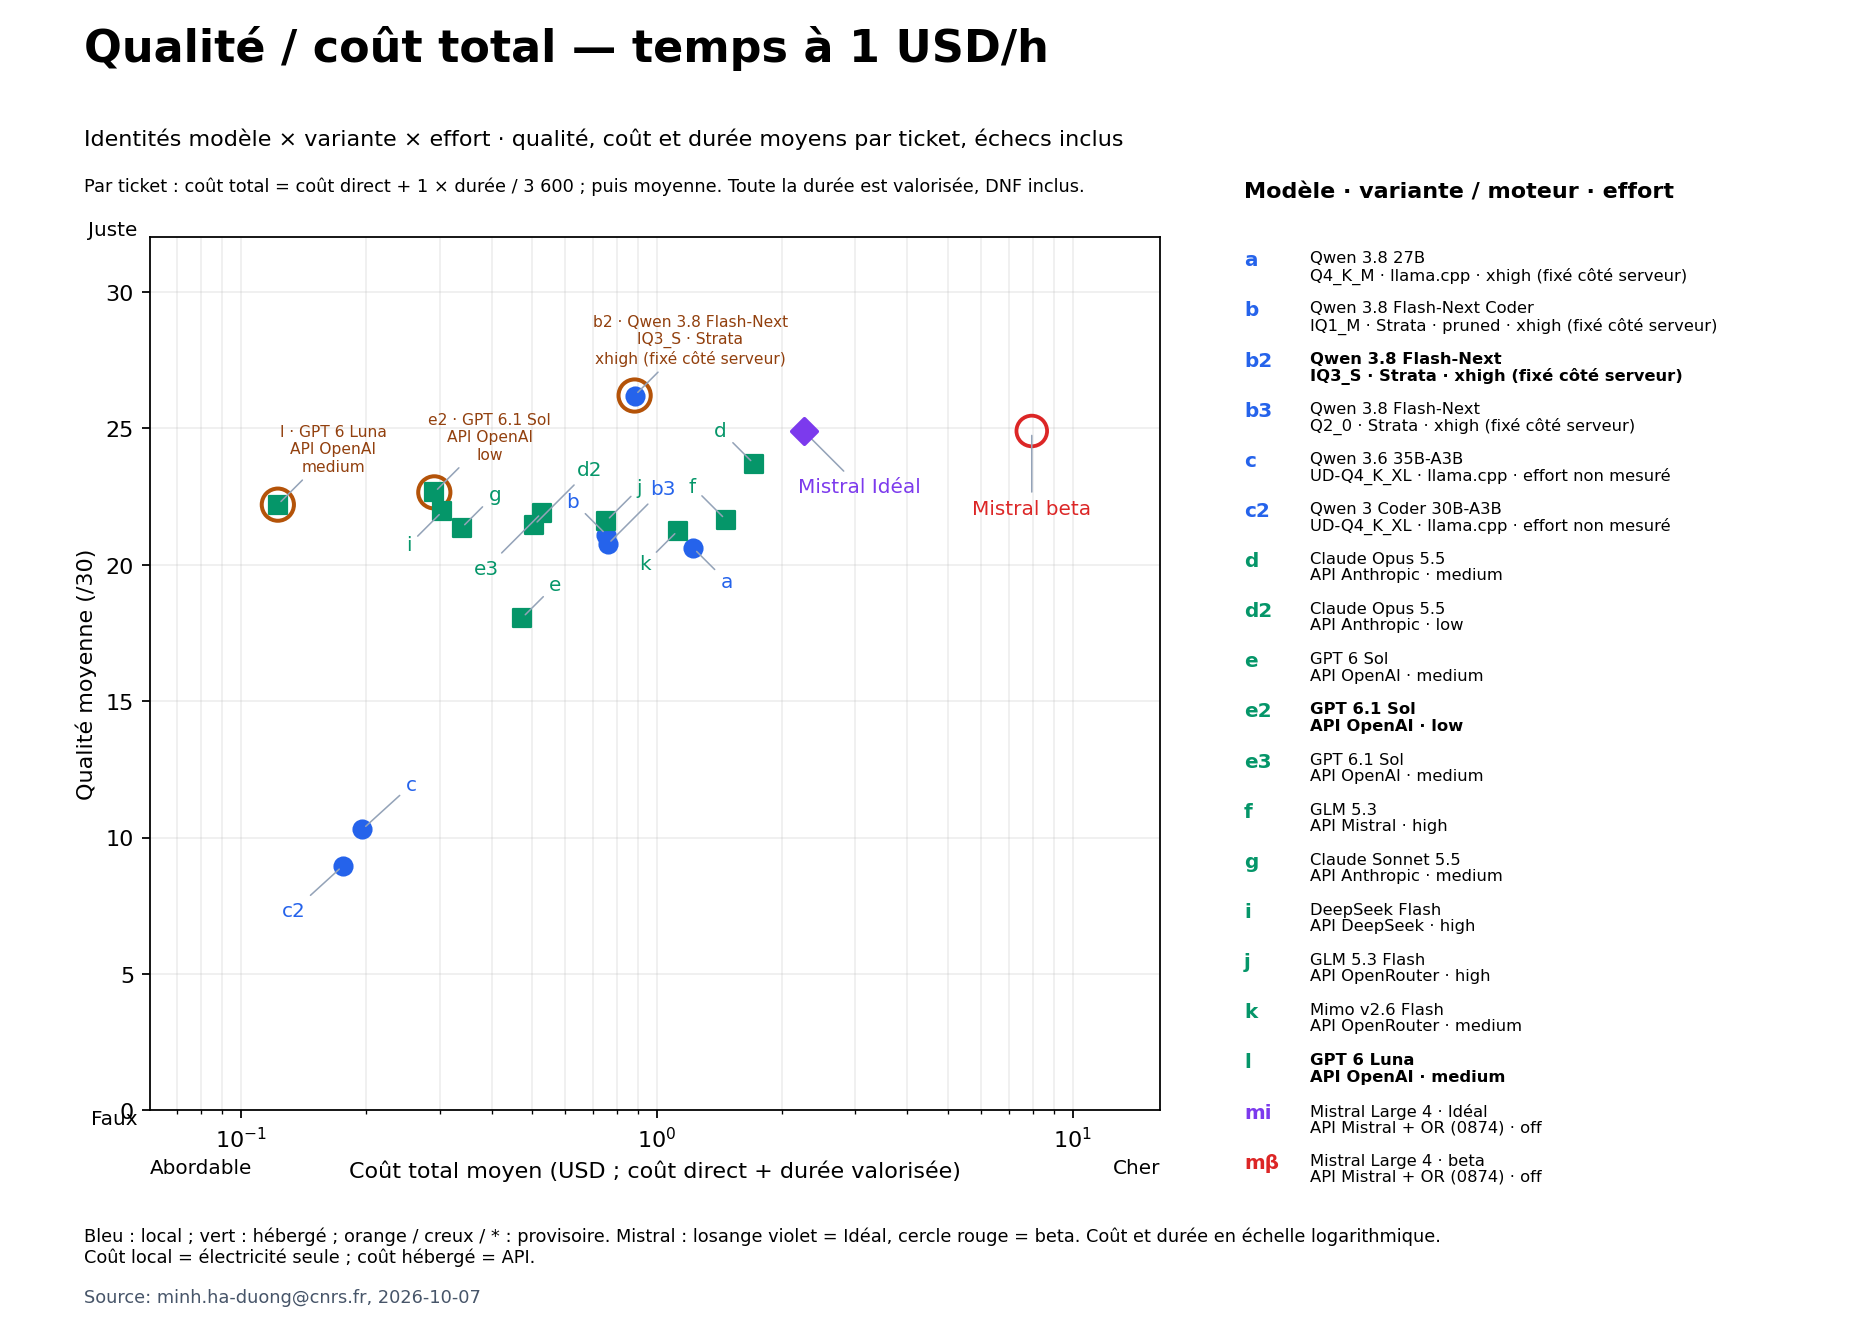
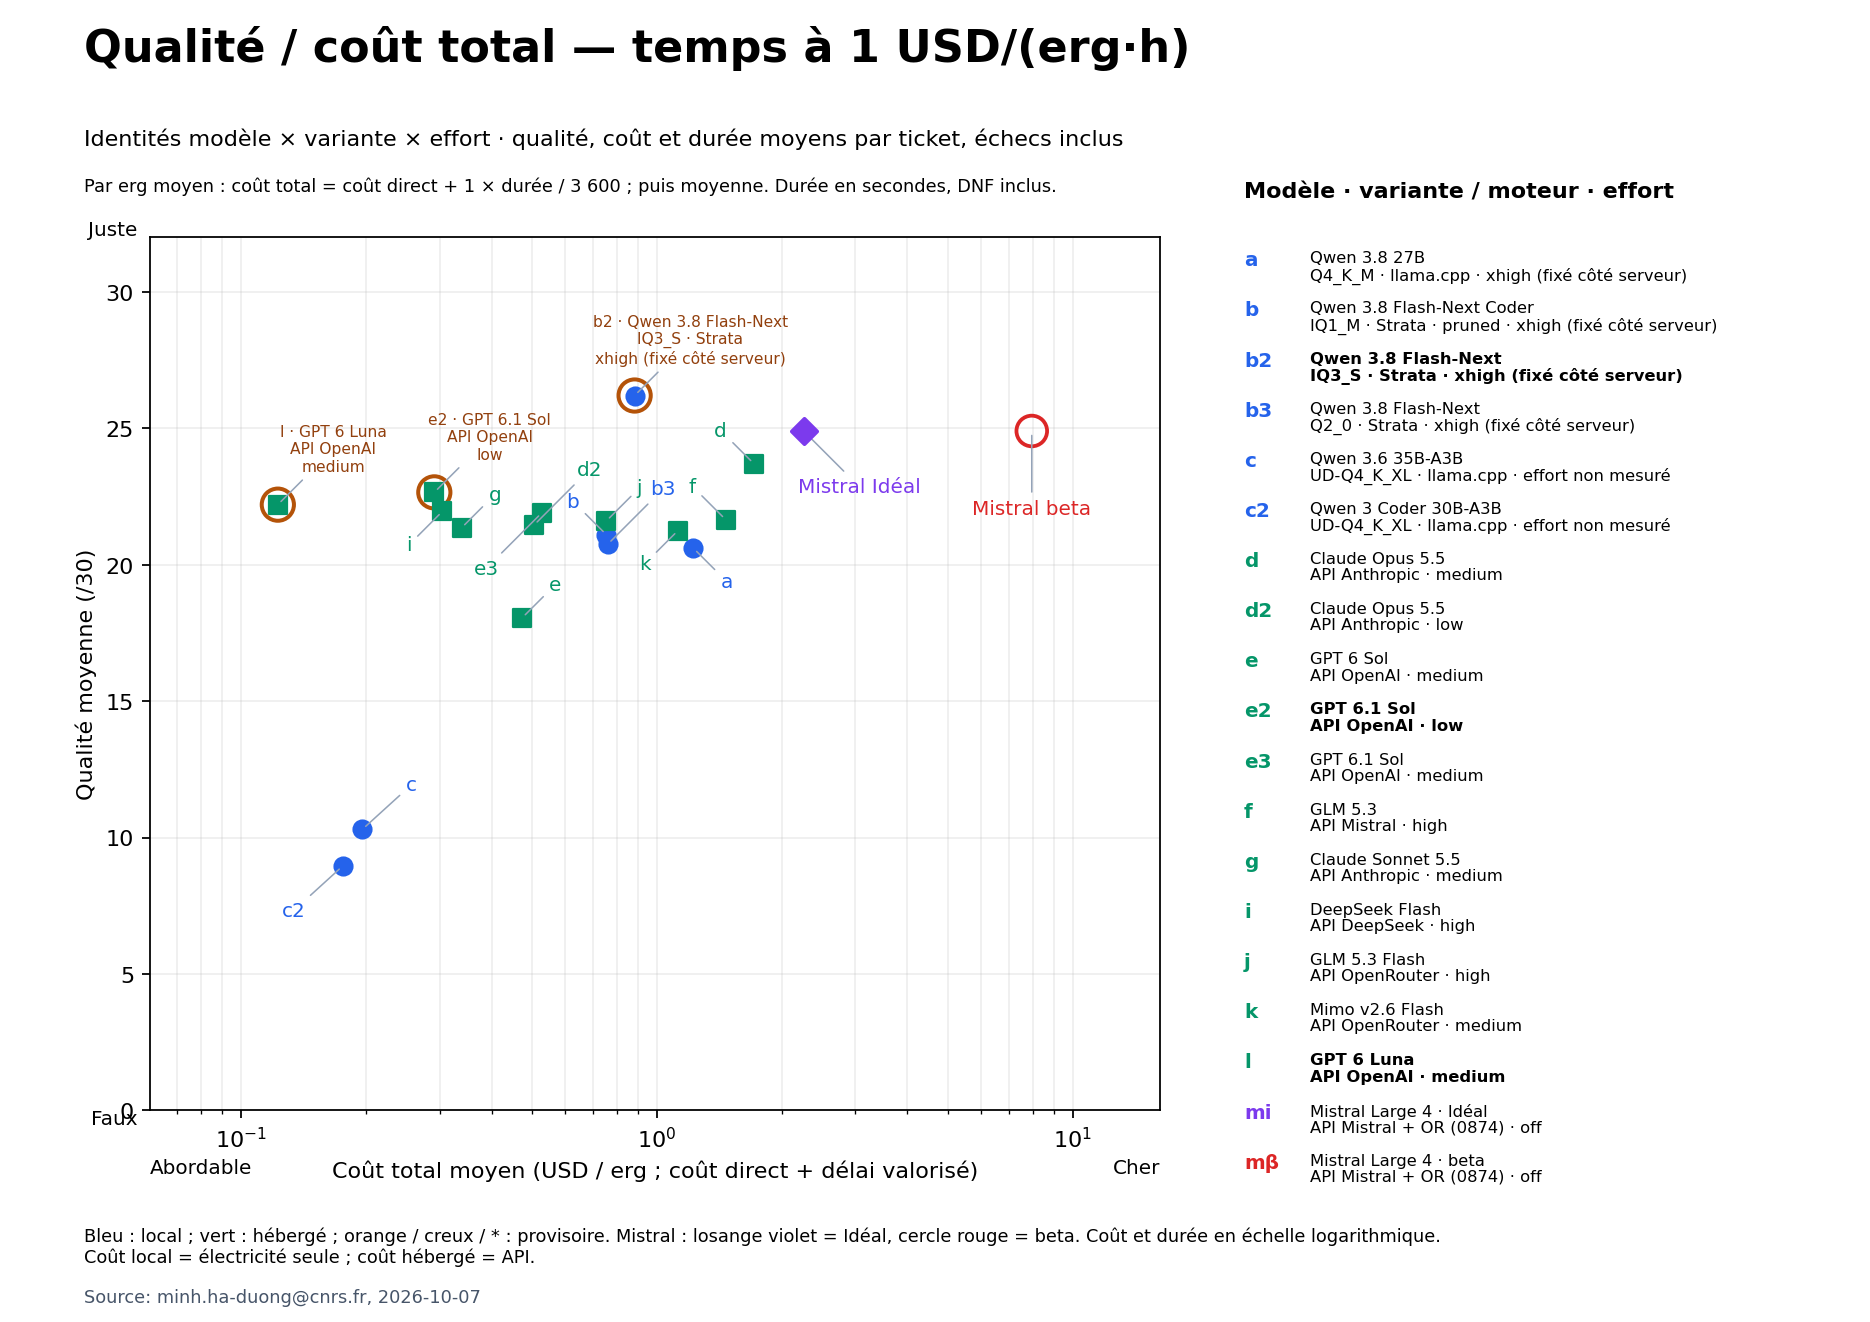
Use delay value per erg-hour consistently

Changed region(s): [[0.062, 0.1241, 0.5583, 0.1551], [0.1861, 0.8684, 0.5273, 0.8994], [0.5273, 0.031, 0.6513, 0.062]]

diff --git a/scripts/tournament-graphs.py b/scripts/tournament-graphs.py
@@ -143,7 +143,7 @@ def total_cost_median(legs, hourly_usd):
 def render(output, snapshot):
     nodes = sorted(snapshot['arms'])
     source_text = f"Source: minh.ha-duong@cnrs.fr, {snapshot['generated_at'][:10]}"
-    hourly_usd = snapshot.get('time_value_usd_hour', 1.0)
+    hourly_usd = snapshot.get('time_value_usd_per_erg_hour', 1.0)
     for arm in nodes:
         legs = snapshot['legs'][arm]
         for metric in ['quality', 'seconds', 'cost_usd']:
@@ -155,7 +155,7 @@ def render(output, snapshot):
         totals_eur = [r['cost_usd']/1.08 + .10*r['seconds']/3600 for r in legs.values()
                       if r.get('cost_usd') is not None and r.get('seconds') is not None]
         snapshot['arms'][arm]['total_cost_eur_010_mean'] = statistics.mean(totals_eur) if totals_eur else None
-    (output/'total-cost.json').write_text(json.dumps({'time_value_usd_hour': hourly_usd, 'means': {a: snapshot['arms'][a]['total_cost_usd_mean'] for a in nodes}}, indent=2)+'\n')
+    (output/'total-cost.json').write_text(json.dumps({'time_value_usd_per_erg_hour': hourly_usd, 'means': {a: snapshot['arms'][a]['total_cost_usd_mean'] for a in nodes}}, indent=2)+'\n')
     (output/'total-cost-010-eur.json').write_text(json.dumps({'time_value_eur_per_erg_hour': .10, 'usd_per_eur': 1.08, 'means': {a: snapshot['arms'][a]['total_cost_eur_010_mean'] for a in nodes}}, indent=2)+'\n')
     dag_nodes = [a for a in nodes if a not in {'c', 'c2', 'e'}]
     results = {}
@@ -227,8 +227,8 @@ def render(output, snapshot):
              'Durée moyenne (minutes)', 'Qualité moyenne (/30)'),
             ('speed-cost', 'Vitesse / coût', 'cost_usd_mean', 'seconds_mean',
              'Coût moyen (USD)', 'Durée moyenne (minutes)'),
-            ('quality-total-cost', f'Qualité / coût total — temps à {hourly_usd:g} USD/h', 'total_cost_usd_mean', 'quality_mean',
-             'Coût total moyen (USD ; coût direct + durée valorisée)', 'Qualité moyenne (/30)'),
+            ('quality-total-cost', f'Qualité / coût total — temps à {hourly_usd:g} USD/(erg·h)', 'total_cost_usd_mean', 'quality_mean',
+             'Coût total moyen (USD / erg ; coût direct + délai valorisé)', 'Qualité moyenne (/30)'),
             ('quality-total-cost-010-eur', 'Qualité / coût total — temps à 0,10 EUR/(erg·h)', 'total_cost_eur_010_mean', 'quality_mean',
              'Coût total moyen (EUR / erg ; coût direct + durée valorisée)', 'Qualité moyenne (/30)'),
         ]
@@ -327,7 +327,7 @@ def render(output, snapshot):
             if name == 'quality-total-cost-010-eur':
                 fig.text(.045,.855,'Par erg moyen : coût direct en USD / 1,08 + 0,10 × durée / 3 600 (secondes) ; puis moyenne. DNF inclus.',fontsize=8)
             if name == 'quality-total-cost':
-                fig.text(.045,.855,f'Par ticket : coût total = coût direct + {hourly_usd:g} × durée / 3 600 ; puis moyenne. Toute la durée est valorisée, DNF inclus.',fontsize=8)
+                fig.text(.045,.855,f'Par erg moyen : coût total = coût direct + {hourly_usd:g} × durée / 3 600 ; puis moyenne. Durée en secondes, DNF inclus.',fontsize=8)
             fig.text(.045,.045,'Bleu : local ; vert : hébergé ; orange / creux / * : provisoire. Mistral : losange violet = Idéal, cercle rouge = beta. Coût et durée en échelle logarithmique.\n'
                      'Coût local = électricité seule ; coût hébergé = API.',fontsize=8)
             fig.text(.045,.015,source_text,fontsize=8,color='#475569');pdf.savefig(fig);fig.savefig(output/f'{name}.png',dpi=160);plt.close(fig)
@@ -380,7 +380,7 @@ def render(output, snapshot):
             "Notation des résultats sur 30 selon le système de la boxe : trois juges partent de 10\net déduisent des points pour les fautes selon leur sévérité : −3, −2, −1 ou −0,5 point.\nLes juges examinent le travail sans connaître le modèle qui l’a produit. Une absence\nde résultat exploitable vaut zéro ; une impossibilité correctement expliquée est jugée normalement.",
             "Le juge principal est Gemini 3.1 Pro Preview ; les deux autres sont Grok 4.3 et MiniMax M2.5.\nLes résultats conservés du premier cycle ont été jugés par Gemini 3.1 Pro Preview,\nDeepSeek V4 Pro et Kimi K3. Les notes sont additionnées, sans pondération entre juges.",
             "Les modèles locaux tournent sur une Lenovo ThinkStation P620 : Ryzen Threadripper PRO\n3945WX, 128 Go de RAM, deux GPU RTX A4000 + RTX 3060 (28 Go de VRAM au total).\nLe coût local estime l’électricité à 600 W et 0,23 €/kWh, sans amortissement du matériel.\nLes coûts API sont ceux des tokens consommés ; conversion commune : 1,08 USD pour 1 EUR.",
-            "Les nuages de points présentent les moyennes par ticket de qualité, durée et coût.\nMistral Idéal retient le dernier résultat réussi de chaque ticket. Mistral beta additionne\nles coûts et durées de tous ses essais, interruptions comprises, et garde la meilleure note.\nSes coûts sont répartis selon les tokens facturés ; les nouveaux essais restent estimés.\nLa frontière de Pareto exclut les séries incomplètes et les qualités moyennes inférieures à 15/30.",
+            "Les nuages de points présentent les moyennes par ticket de qualité, durée et coût.\nChaque ticket représente un erg moyen. La valeur du délai est exprimée par erg et par heure, en USD/(erg·h) ou EUR/(erg·h), et non comme un salaire horaire.\nMistral Idéal retient le dernier résultat réussi de chaque ticket. Mistral beta additionne\nles coûts et durées de tous ses essais, interruptions comprises, et garde la meilleure note.\nSes coûts sont répartis selon les tokens facturés ; les nouveaux essais restent estimés.\nLa frontière de Pareto exclut les séries incomplètes et les qualités moyennes inférieures à 15/30.",
             "Sur les trois graphes acycliques, les flèches comparent les résultats\nticket par ticket par un test de Wilcoxon apparié, bilatéral, au seuil de 5 %.\nElles vont vers le résultat moins juste, plus lent ou plus cher.\nLes flèches redondantes par transitivité sont retirées pour faciliter la lecture.\nL’absence de flèche ne prouve pas l’équivalence ; un chemin indirect n’est pas un test supplémentaire.",
             "Le seuil de 5 % vaut pour chaque comparaison, sans garantie simultanée pour tout le graphe.\nLa correction de Holm contrôle le risque de faux positifs lié aux comparaisons multiples.\nAvec dix tickets, aucune différence ne franchit ce seuil plus exigeant : les écarts détectés\ndeux à deux ne constituent donc pas un classement global garanti à 95 %.\nLes astérisques signalent les séries provisoires ; Mistral beta a un contour pointillé dans les DAG.\nQwen 3, Qwen 3.6 et GPT-6 Sol figurent seulement dans les nuages de points.",
         ]
@@ -435,7 +435,7 @@ def main():
     parser.add_argument('--arena',type=Path,default=Path.home()/'arena')
     parser.add_argument('--output',type=Path,default=Path('docs/tournament-graphs'))
     parser.add_argument('--snapshot',type=Path,help='Render from a frozen cleared snapshot, without accessing arena transcripts')
-    parser.add_argument('--time-value', type=float, default=1.0, help='USD per hour of elapsed run duration')
+    parser.add_argument('--time-value', type=float, default=1.0, help='USD per erg-hour of delivery delay; each benchmark ticket represents one average erg')
     args=parser.parse_args()
     if args.time_value < 0:parser.error('time value must be nonnegative')
     args.output.mkdir(parents=True,exist_ok=True)
@@ -456,7 +456,7 @@ def main():
         mistral = importlib.util.module_from_spec(mspec)
         mspec.loader.exec_module(mistral)
         mistral.add_series(snapshot, args.arena)
-    snapshot['time_value_usd_hour'] = args.time_value
+    snapshot['time_value_usd_per_erg_hour'] = args.time_value
     (args.output/'snapshot.json').write_text(json.dumps(snapshot,indent=2)+'\n')
     results=render(args.output,snapshot)
     (args.output/'snapshot.json').write_text(json.dumps(snapshot,indent=2)+'\n')

diff --git a/docs/tournament-graphs/README.md b/docs/tournament-graphs/README.md
@@ -34,7 +34,7 @@ Référence de méthode : [SciPy Wilcoxon](https://docs.scipy.org/doc/scipy/refe
 Frontières XY : qualité médiane ≥ 15/30 et observations complètes requises.
 Les modèles sous ce seuil restent visibles, mais ne sont pas admissibles.
 
-Le quatrième XY valorise toute la durée à 1 USD/h : coût direct + durée/3600,
+Le quatrième XY valorise toute la durée à 1 USD/(erg·h) : coût direct + durée/3600,
 calculé par ticket avant la médiane. Paramètre reproductible : `--time-value 1`.
 
 Mistral direct has two accounting series, generated by
@@ -58,3 +58,5 @@ Scatterplots now use arithmetic means per ticket for all three axes: quality,
 duration, and cost (including time-valued total cost). Pareto eligibility requires
 mean quality >=15/30. This replaces the earlier median display; signed-rank tests
 continue to use the underlying paired ticket results without changing their method.
+
+Chaque ticket représente un erg moyen. Les deux scénarios valorisent le délai à 1 USD/(erg·h) et 0,10 EUR/(erg·h). Le coût total par erg additionne le coût direct par erg et la valeur du délai multipliée par sa durée en heures.
